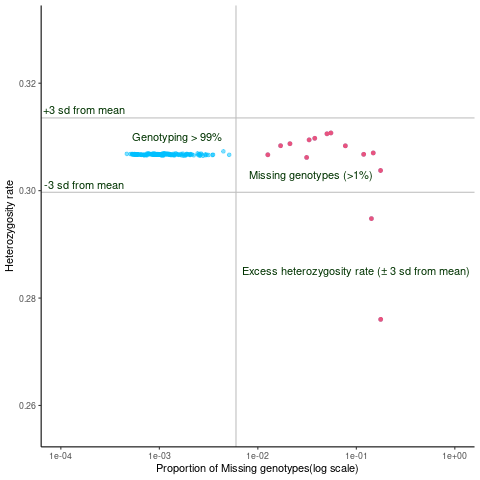
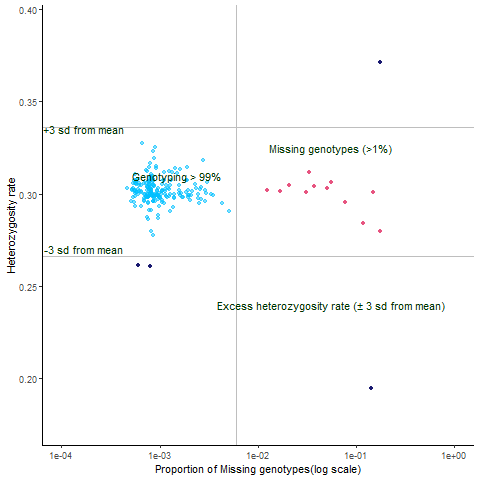
Ind heter updated

Changed region(s): [[0.0, 0.0, 1.0, 1.0], [0.75, 0.4375, 0.7812, 0.4688], [0.2812, 0.5312, 0.3125, 0.5625]]

diff --git a/chapters/QC/Individual-QC/Ind-Hetr.md b/chapters/QC/Individual-QC/Ind-Hetr.md
@@ -51,7 +51,7 @@ If an individual’s heterozygosity rate is **unusually high**:
 
 #### PLINK command to calculate heterozygosity rate
 
-    ./plink --bfile 1_QC_Raw_GWAS_data --het --out outlying_heterozygosity_rate
+    ./plink --bfile Sex_check_File --het --out outlying_heterozygosity_rate
 
 <table>
 <thead>
@@ -94,8 +94,8 @@ If an individual’s heterozygosity rate is **unusually high**:
 <!-- -->
 
     # Missing individual & Heterozygosity rate
-    miss <- fread("SEX_data/Missing_sample/missing_data_rate.imiss")
-    hetro <- fread("SEX_data/Missing_sample/Heterozygosity_rate/outlying_heterozygosity_rate.het")
+    miss <- fread("missing_data_rate.imiss")
+    hetro <- fread("outlying_heterozygosity_rate.het")
     head(miss, 2)
     head(hetro, 2)
 
@@ -106,7 +106,7 @@ $$
 $$
 
     # Calculate the observed heterozyosity rate
-    hetro$obs_hetero_rate <- ((hetro$`N(NM)`)-hetro$`O(HOM)`)/hetro$`N(NM)`
+    hetro$obs_hetero_rate <- (hetro$`N(NM)` - hetro$`O(HOM)`) / hetro$`N(NM)`
 
 -   Merge the miss and hetro dataframe above created
 
@@ -119,7 +119,7 @@ $$
     # Creating plot
     png("Missing_hetero_check.png")
     ggplot(hetro_miss, aes(x = F_MISS, y = obs_hetero_rate))+
-      geom_point(alpha = 0.5, col = "#00bfff")+
+      geom_point(alpha = 0.5, col = "#00bfff") +
       labs(x ="Proportion of Missing genotypes(log scale)", y = "Heterozygosity rate")+
       scale_x_log10(limits = c(0.0001, 1))+
       theme_classic()+
@@ -132,18 +132,21 @@ $$
                  pch = 19,
                  size=1.6,
                  colour = "#e75480")+
-      annotate(geom="text", x=0.035, y=0.303, label="Missing genotypes (>1%)",
+      geom_point(data=hetro_miss %>%
+                   filter(obs_hetero_rate < 0.27 | obs_hetero_rate > 0.34),
+                 pch = 19,
+                 size=1.6,
+                 colour = "midnightblue")+
+      annotate(geom="text", x=0.056, y=0.325, label="Missing genotypes (>1%)",
                color="#003300")+
-      annotate(geom="text", x=0.1, y=0.285, label="Excess heterozygosity rate (Â± 3 sd from mean)",
+      annotate(geom="text", x=0.056, y=0.24, label="Excess heterozygosity rate (± 3 sd from mean)",
                color="#003300")+
-      annotate(geom="text", x=0.00017, y=0.315, label="+3 sd from mean",
+      annotate(geom="text", x=0.00017, y=0.335, label="+3 sd from mean",
                color="#003300")+
-      annotate(geom="text", x=0.00017, y=0.301, label="-3 sd from mean",
+      annotate(geom="text", x=0.00017, y=0.27, label="-3 sd from mean",
                color="#003300")+
       annotate(geom="text", x=0.0015, y=0.31, label="Genotyping > 99%",
                color="#003300")
-
-    dev.off()
 
 The above R script will create a png file containing information based
 on missing rate and heterozygosity rate. For missing rate we set a
@@ -157,11 +160,21 @@ Individual missingness and heterozygoisty rate
 
 #### Exclude failed individuals
 
-    exclude<- subset(hetro_miss, hetro_miss$F_MISS >= 0.01 | hetro_miss$obs_hetero_rate  <= 0.1836184) %>% 
+    # Exclude failed individuals
+    # Calculate mean and sd for heterozygosity
+    hetro_mean <- mean(hetro_miss$obs_hetero_rate, na.rm = TRUE)
+    hetro_sd <- sd(hetro_miss$obs_hetero_rate, na.rm = TRUE)
+
+    upper_sd <- hetro_mean + 3 * hetro_sd
+    lower_sd <- hetro_mean - 3 * hetro_sd
+
+    # Exclude failed individuals
+    exclude <- hetro_miss %>%
+      filter(F_MISS >= 0.01 | obs_hetero_rate <= lower_sd | obs_hetero_rate >= upper_sd) %>%
       select(1:2)
 
     # create text file
-    write.table(exclude, "Missing_Heter/hetrocheckexclude.txt", 
+    write.table(exclude, "hetrocheckexclude.txt", 
                 row.names=FALSE, 
                 col.names = FALSE,
                 sep="\t", 
@@ -172,7 +185,10 @@ sample failed missingness and heterozygoisty rate
 
 #### PLINK command to exclude samples
 
-    ./plink --bfile 1_QC_Raw_GWAS_data --remove hetrocheckexclude.txt --make-bed --out1_QC_Raw_GWAS_data 
+    ./plink --bfile Sex_check_File --remove hetrocheckexclude.txt --make-bed --out Imiss_heter
+
+The above steps will remove all samples those failed individual missing
+rate and heterozygosity rate
 
 The heterozygosity rate is a simple but powerful QC check. By flagging
 individuals with too high or too low genetic diversity, it protects your
